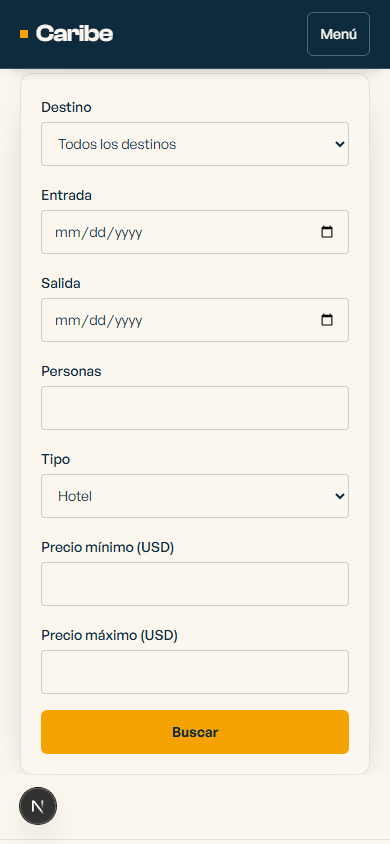
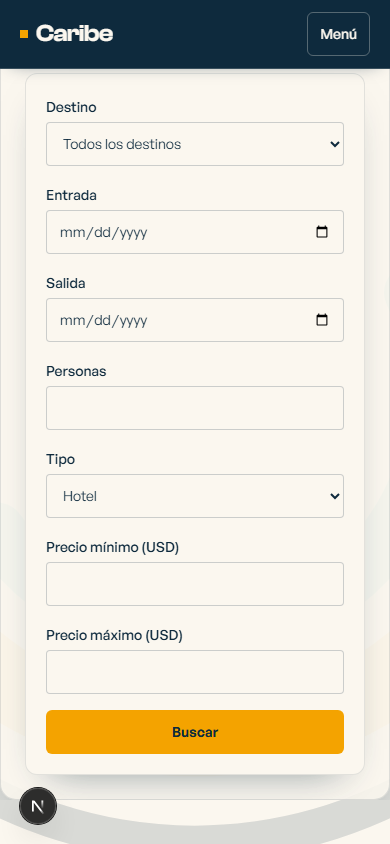
feat(web): mostrar el buscador a pantalla completa
Task: T-NAV-4

Fondo kinetic-giro.svg local, superficie glass y mismo SearchPanel que /search;\nverificado en el navegador con capturas de escritorio y movil.

diff --git a/apps/web/test/search-stage.test.ts b/apps/web/test/search-stage.test.ts
@@ -1,0 +1,43 @@
+import { readFileSync } from "node:fs";
+import { join } from "node:path";
+import { fileURLToPath } from "node:url";
+import { describe, expect, it } from "vitest";
+
+const appRoot = fileURLToPath(new URL("..", import.meta.url));
+const read = (path: string): string => readFileSync(join(appRoot, path), "utf8");
+
+describe("sección de búsqueda a pantalla completa", () => {
+  it("usa el giro local como fondo y una superficie glass", () => {
+    const css = read("src/app/globals.css");
+    const stage = css.slice(css.indexOf(".search-stage"), css.indexOf(".search-glass"));
+    expect(stage).toContain("min-height: 100dvh");
+    expect(stage).toContain('url("/images/kinetic-giro.svg")');
+    expect(stage).toContain("background-size: cover");
+    const glass = css.slice(css.indexOf(".search-glass"));
+    expect(glass).toContain("backdrop-filter: blur(16px)");
+    expect(glass).toContain("var(--color-bone) 88%");
+  });
+
+  it("sirve el giro desde la propia web sin datos externos", () => {
+    const svg = read("public/images/kinetic-giro.svg");
+    expect(svg).toContain("<svg");
+    expect(svg).toContain('viewBox="0 0 1440 900"');
+    for (const color of ["#fbf7ef", "#0e2a3d", "#f4a300", "#1fa6a0"]) {
+      expect(svg).toContain(color);
+    }
+    expect(svg).not.toContain("<image");
+    expect(svg).not.toContain("<script");
+    expect(svg).not.toContain("xlink:href");
+    expect(svg).not.toMatch(/href="(?!https:\/\/www\.w3\.org)/);
+  });
+
+  it("monta el mismo formulario en la portada y en /search", () => {
+    const home = read("src/components/home-search-panel.tsx");
+    const form = read("src/components/search-view.tsx");
+    const experience = read("src/components/search-experience.tsx");
+    expect(home).toContain('<SearchPanel locale={locale}');
+    expect(form).toContain("<SearchPanel");
+    expect(experience).toContain("<SearchFormView");
+    expect(home).toContain("stagger");
+  });
+});

diff --git a/apps/web/src/app/[locale]/page.tsx b/apps/web/src/app/[locale]/page.tsx
@@ -75,14 +75,16 @@ export default async function HomePage({ params }: HomePageProps) {
         </a>
       </section>
 
-      <section id="search" className="scroll-target bg-bone py-16">
+      <section id="search" className="search-stage scroll-target py-16">
         <noscript>
           <style>{`.search-reveal[data-reveal="pending"]{opacity:1;clip-path:none;transform:none}.search-reveal .reveal-field{opacity:1;transform:none}`}</style>
         </noscript>
         <SearchReveal>
-          <div className="mx-auto max-w-6xl space-y-6 px-5 lg:px-10">
-            <h2 className="font-display text-h2 text-ink">{t("searchTitle")}</h2>
-            <HomeSearchPanel locale={locale} />
+          <div className="flex min-h-[calc(100dvh-8rem)] items-center">
+            <div className="search-glass mx-auto w-full max-w-6xl space-y-6 rounded-2xl p-6 lg:p-10">
+              <h2 className="font-display text-h2 text-ink">{t("searchTitle")}</h2>
+              <HomeSearchPanel locale={locale} />
+            </div>
           </div>
         </SearchReveal>
       </section>

diff --git a/apps/web/src/app/globals.css b/apps/web/src/app/globals.css
@@ -69,6 +69,31 @@ body {
   scroll-margin-top: 5.5rem;
 }
 
+/* Escena del buscador: giro local a pantalla completa y superficie glass. */
+.search-stage {
+  min-height: 100vh;
+  min-height: 100dvh;
+  background-color: var(--color-bone);
+  background-image: url("/images/kinetic-giro.svg");
+  background-position: center;
+  background-repeat: no-repeat;
+  background-size: cover;
+}
+
+.search-glass {
+  background-color: var(--color-bone);
+  background-color: color-mix(in srgb, var(--color-bone) 88%, transparent);
+  border: 1px solid color-mix(in srgb, var(--color-ink) 12%, transparent);
+  box-shadow: var(--shadow-brand);
+}
+
+@supports ((backdrop-filter: blur(1px)) or (-webkit-backdrop-filter: blur(1px))) {
+  .search-glass {
+    -webkit-backdrop-filter: blur(16px);
+    backdrop-filter: blur(16px);
+  }
+}
+
 :focus-visible {
   outline: 2px solid var(--color-amber);
   outline-offset: 2px;

diff --git a/apps/web/test/visual-identity.test.ts b/apps/web/test/visual-identity.test.ts
@@ -31,8 +31,9 @@ describe("identidad visual Caribe", () => {
 
   it("declara el fondo solido antes del soporte de backdrop-filter", () => {
     const css = read("src/app/globals.css");
-    const solid = css.indexOf("background-color: var(--color-ink)");
-    const supports = css.indexOf("@supports ((backdrop-filter: blur(1px))");
+    const header = css.split(".site-header")[1] ?? "";
+    const solid = header.indexOf("background-color: var(--color-ink)");
+    const supports = header.indexOf("@supports ((backdrop-filter: blur(1px))");
     expect(solid).toBeGreaterThan(-1);
     expect(supports).toBeGreaterThan(solid);
     expect(css).toContain("data-scrolled=\"false\"");

diff --git a/openspec/changes/f1-navigation-refresh/tasks.md b/openspec/changes/f1-navigation-refresh/tasks.md
@@ -11,7 +11,7 @@ Una tarea a la vez. Capturas de escritorio y móvil antes de cada commit en
   Prueba: escenarios «Navegación pública separada del panel» de `specs/web-ui/spec.md`; capturas de cuenta y cabecera en escritorio y móvil; lint, typecheck y tests en verde.
 - [x] T-NAV-3 Añadir la flecha de bajada del hero con scroll suave, foco visible y respeto a `prefers-reduced-motion`.
   Prueba: escenarios «Recorrido guiado de la portada» de `specs/web-ui/spec.md`; capturas de inicio en escritorio y móvil; lint, typecheck y tests en verde.
-- [ ] T-NAV-4 Convertir la sección de búsqueda en pantalla completa con fondo `kinetic-giro.svg`, superficie glass y el formulario compartido encima.
+- [x] T-NAV-4 Convertir la sección de búsqueda en pantalla completa con fondo `kinetic-giro.svg`, superficie glass y el formulario compartido encima.
   Prueba: escenarios «Sección de búsqueda a pantalla completa» de `specs/web-ui/spec.md`; capturas de inicio y buscador revelado en escritorio y móvil; lint, typecheck y tests en verde.
 - [ ] T-NAV-5 Añadir la segunda flecha y la sección de hoteles destacados con datos reales de la API, estado vacío y etiquetas «Próximamente» sin datos de ejemplo. No modificar tarjetas de hotel existentes.
   Prueba: escenarios «Destacados con datos reales» de `specs/web-ui/spec.md`; capturas de destacados en escritorio y móvil; lint, typecheck y tests en verde.

diff --git a/openspec/changes/f1-navigation-refresh/design.md b/openspec/changes/f1-navigation-refresh/design.md
@@ -34,11 +34,12 @@ enlace 2FA (TOTP) de la web pública, visible solo con sesión. Se mueve al áre
 
 ## 3. Portada y buscador
 
-- La flecha de bajada es un `a` con `href="#buscar"`, `scroll-behavior: smooth` y
+- La flecha de bajada es un `a` con `href="#search"`, `scroll-behavior: smooth` y
   `prefers-reduced-motion: reduce` → `auto`. Icono SVG decorativo, `aria-hidden`.
-- La sección `#buscar` ocupa `min-h-dvh`, usa `public/images/kinetic-giro.svg` como fondo
+- La sección `#search` ocupa `min-h-dvh`, usa `public/images/kinetic-giro.svg` como fondo
   (Formas cinéticas en azul, ámbar y teal sobre hueso; archivo local, sin proveedor externo) y
-  coloca encima el mismo `SearchPanel` de la portada, con superficie glass y radios ya aprobados.
+  coloca encima el mismo `SearchPanel` de la portada, con superficie `.search-glass` y radios ya
+  aprobados.
 - Segunda flecha hacia `#destacados`, sección con tarjetas leídas de `GET /products?limit=3`.
   Si no hay productos, se muestra el estado vacío i18n. No se crean datos de ejemplo.
 - El panel de `/search` reutiliza `SearchPanel`; no existe un segundo componente de formulario.
